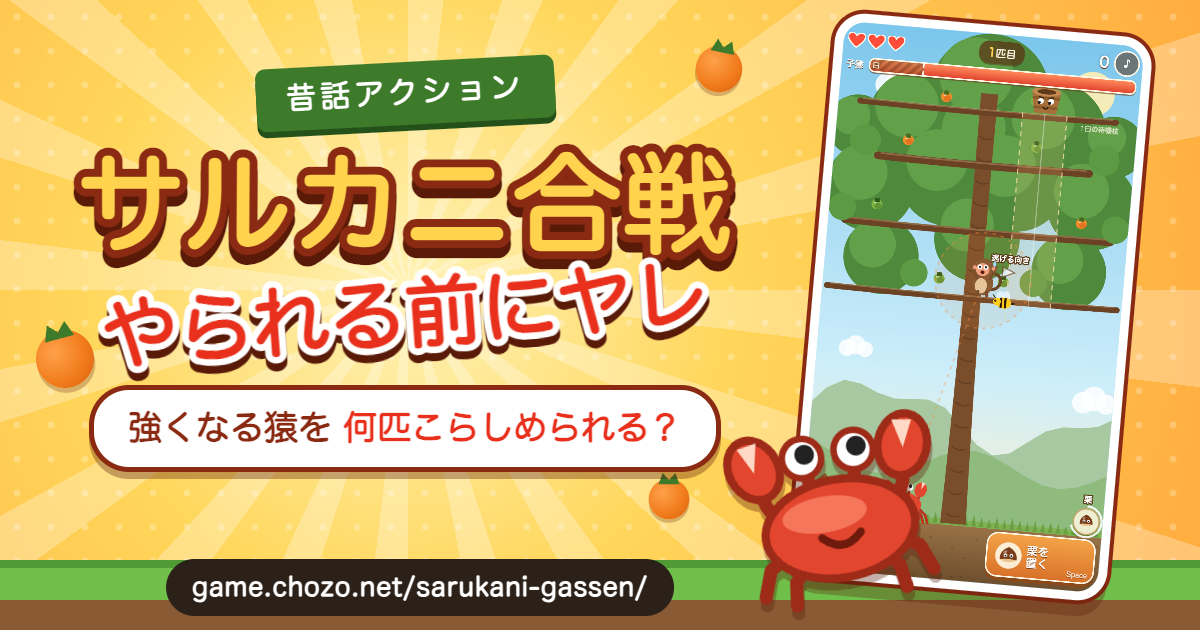
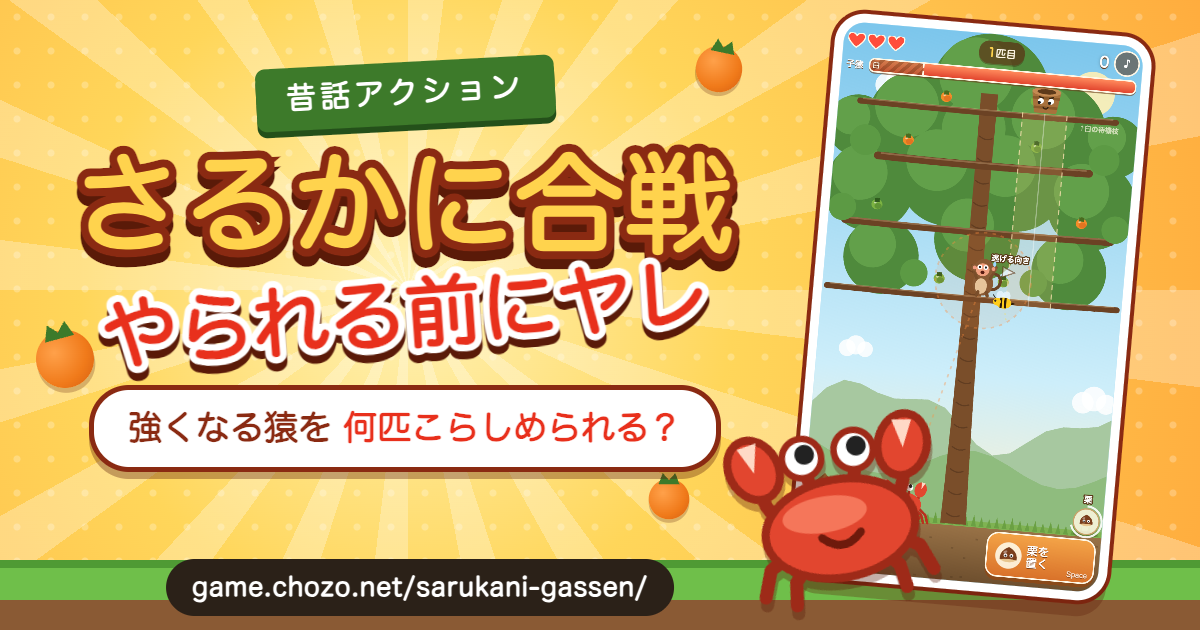
タイトルを「さるかに合戦」に変更
ロゴ・ページタイトル・OGP メタタグ・称号「さるかに合戦の勇者」・OGP 画像・README・
告知動画の台本をそろえた。告知動画の BGM 音量を真のピークに合わせて調整。

Changed region(s): [[0.0617, 0.2111, 0.6167, 0.4222]]

diff --git a/index.html b/index.html
@@ -3,19 +3,19 @@
 <head>
 <meta charset="utf-8">
 <meta name="viewport" content="width=device-width,initial-scale=1,viewport-fit=cover,user-scalable=no">
-<title>サルカニ合戦 やられる前にヤレ</title>
+<title>さるかに合戦 やられる前にヤレ</title>
 <meta name="description" content="柿をかわして、蜂と栗で猿を追い込み、臼で仕留めろ！昔話「猿蟹合戦」のミニWebゲーム。">
 <meta name="theme-color" content="#2b2118">
 <link rel="icon" href="./favicon.svg" type="image/svg+xml">
 <meta property="og:type" content="website">
-<meta property="og:site_name" content="サルカニ合戦 やられる前にヤレ">
-<meta property="og:title" content="サルカニ合戦 やられる前にヤレ">
+<meta property="og:site_name" content="さるかに合戦 やられる前にヤレ">
+<meta property="og:title" content="さるかに合戦 やられる前にヤレ">
 <meta property="og:description" content="柿をかわして、蜂と栗で猿を追い込み、臼で仕留めろ！昔話「猿蟹合戦」のミニWebゲーム。">
 <meta property="og:url" content="https://game.chozo.net/sarukani-gassen/">
 <meta property="og:image" content="https://game.chozo.net/sarukani-gassen/ogp.png">
 <meta property="og:image:width" content="1200">
 <meta property="og:image:height" content="630">
-<meta property="og:image:alt" content="サルカニ合戦 やられる前にヤレ：カニと、木の上の猿を蜂で追い立てるゲーム画面">
+<meta property="og:image:alt" content="さるかに合戦 やられる前にヤレ：カニと、木の上の猿を蜂で追い立てるゲーム画面">
 <meta property="og:locale" content="ja_JP">
 <meta name="twitter:card" content="summary_large_image">
 <style>
@@ -205,7 +205,7 @@
   <div id="startScreen" class="screen">
     <div class="tTop">
       <div class="tRibbon">昔話アクション</div>
-      <h1 class="tLogo"><span class="l1">サルカニ合戦</span><span class="l2">やられる前にヤレ</span></h1>
+      <h1 class="tLogo"><span class="l1">さるかに合戦</span><span class="l2">やられる前にヤレ</span></h1>
       <div class="tBubble">強くなる猿を<br><b>何匹こらしめられる？</b></div>
     </div>
     <div class="tBottom">
@@ -327,7 +327,7 @@
       { at: 2, name: '猿こらしめ係' },
       { at: 3, name: '柿の木の番人' },
       { at: 5, name: 'カニ名人' },
-      { at: 7, name: 'サルカニ合戦の勇者' },
+      { at: 7, name: 'さるかに合戦の勇者' },
       { at: 10, name: 'カニ大将' },
       { at: 15, name: '伝説の大ガニ' },
       { at: 20, name: 'カニ神さま' },

diff --git a/tools/promo/scenario.js b/tools/promo/scenario.js
@@ -1,4 +1,4 @@
-// 告知動画の台本（サルカニ合戦 やられる前にヤレ）。
+// 告知動画の台本（さるかに合戦 やられる前にヤレ）。
 // カニの操作は、ゲームの window に置いたボット（window.__promoBot）が毎ステップ決める。
 // ボットは tests/balance.test.mjs の「臼を仕掛けて蜂・栗で追い込む」戦略と同じ。
 // 称号は動画に出さない（「称号ゲット！」の帯は隠す。結果画面は映さない）。
@@ -12,7 +12,7 @@ export const config = {
   game: { width: 405, height: 720 },
   serveDir: 'dist',
   gamePath: '/sarukani-gassen/',
-  music: { file: 'tools/promo/bgm.wav', volume: 0.04 }, // 効果音（約 -31 LUFS）より 12 dB ほど小さく
+  music: { file: 'tools/promo/bgm.wav', volume: 0.038 }, // 効果音（約 -31 LUFS）より 12〜13 dB 小さく（真のピークが -1〜-2 dBTP に収まる値）
 };
 
 // ゲームの window で実行する準備：ボットを置き、称号の帯を隠す
@@ -69,7 +69,7 @@ export default async function scenario(p) {
   p.off('usuHit');
 
   // ---- タイトル ----
-  p.title({ title: 'サルカニ合戦', sub: 'やられる前にヤレ', logo: '/sarukani-gassen/favicon.svg', dur: 2.6 });
+  p.title({ title: 'さるかに合戦', sub: 'やられる前にヤレ', logo: '/sarukani-gassen/favicon.svg', dur: 2.6 });
   await p.wait(3.1);
 
   // ---- 本編：最初から ----
@@ -104,6 +104,6 @@ export default async function scenario(p) {
 
   // ---- エンドカード ----
   for (const ev of ['usuMiss', 'usuHit']) p.off(ev);
-  p.endCard({ title: 'サルカニ合戦', sub: 'やられる前にヤレ', logo: '/sarukani-gassen/favicon.svg', cta: '今すぐ遊べる！', dur: 3.5 });
+  p.endCard({ title: 'さるかに合戦', sub: 'やられる前にヤレ', logo: '/sarukani-gassen/favicon.svg', cta: '今すぐ遊べる！', dur: 3.5 });
   await p.wait(3.5);
 }

diff --git a/tools/promo/promo.css b/tools/promo/promo.css
@@ -9,7 +9,7 @@ body {
 }
 
 /* 背景。ゲームの世界観に合わせて変える（scenario.js の config.background でも上書きできる） */
-/* サルカニ合戦：OGP 画像と同じ、黄色〜オレンジの放射線と水玉 */
+/* さるかに合戦：OGP 画像と同じ、黄色〜オレンジの放射線と水玉 */
 #bg {
   position: absolute; inset: 0; overflow: hidden;
   background:
